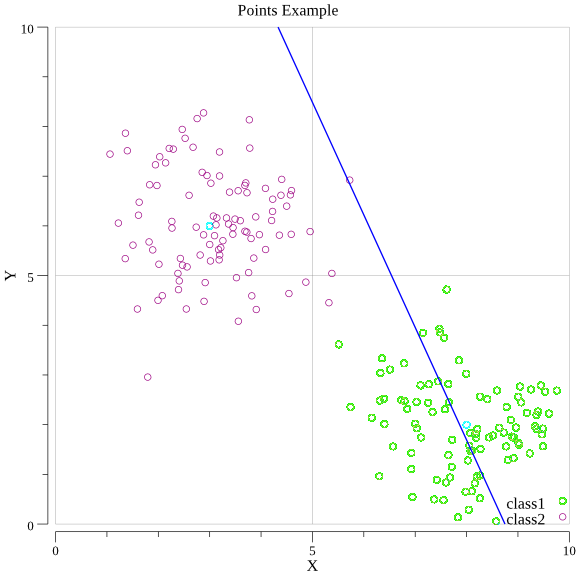
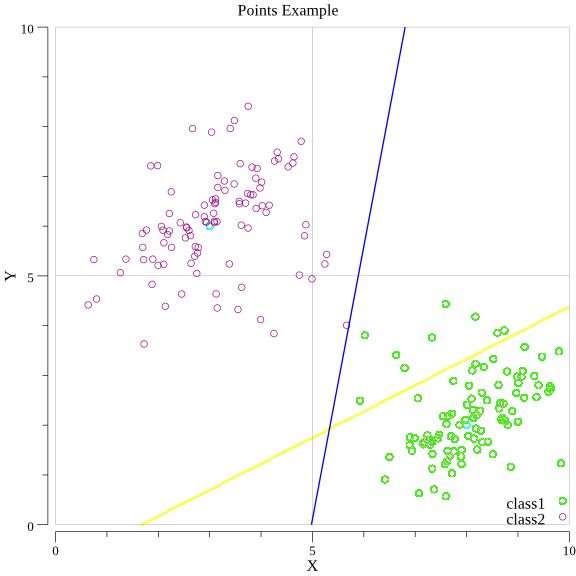
fix readme

diff --git a/README.md b/README.md
@@ -1,0 +1,6 @@
+## 確率的勾配降下法
+### 誤差関数
+![](https://github.com/mytheta/sgd/blob/master/points.png)
+
+### 結果
+![](https://github.com/mytheta/sgd/blob/master/report.png)
